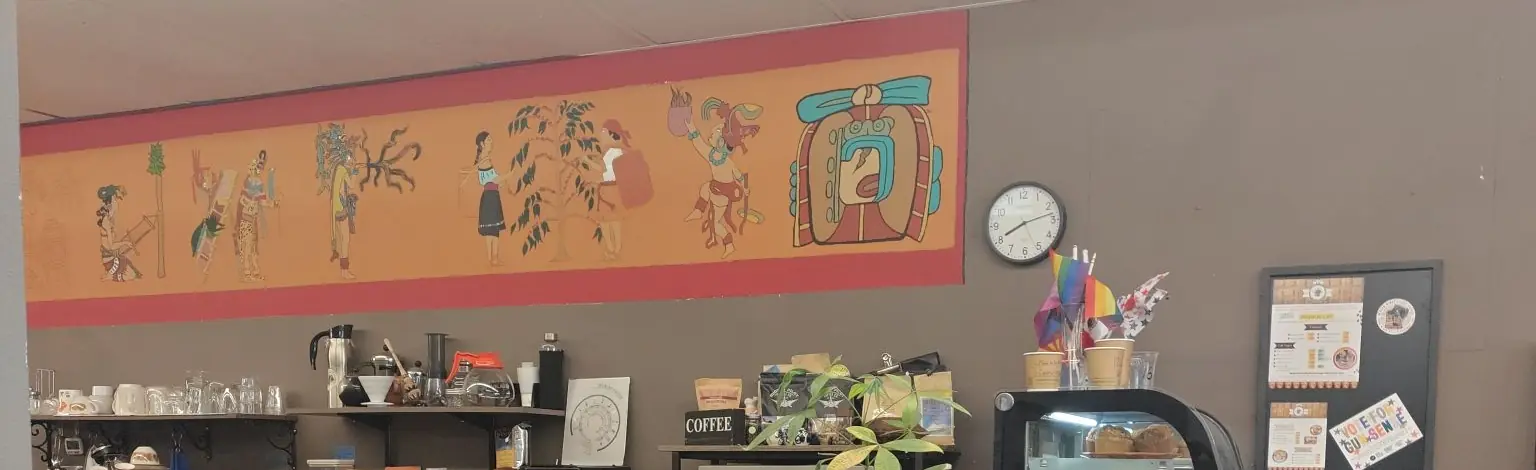
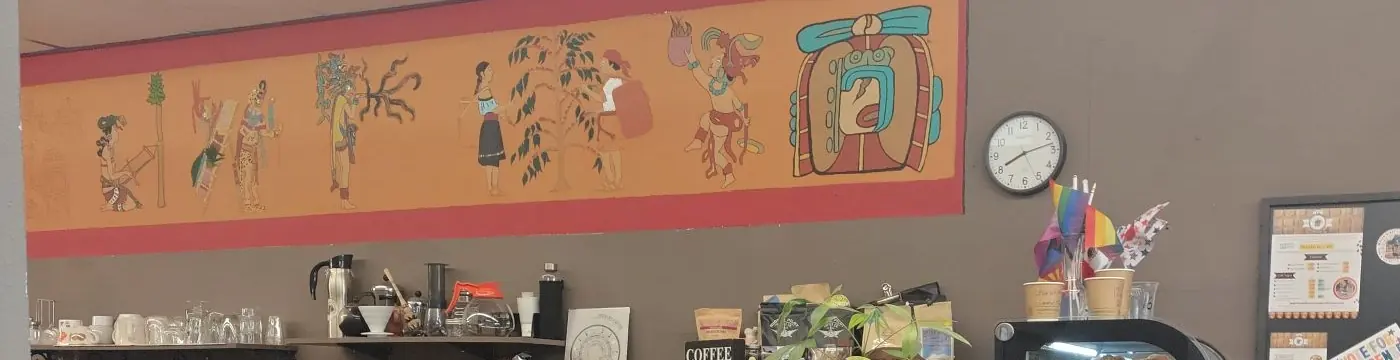
Revise the Mayan Winds hero, mural, and DoorDash link
Show the storefront as one leveled photo of the shop front, put a smaller mural at the top of the page, and add a quiet DoorDash link beside the Square button.

diff --git a/mayan-winds/index.html b/mayan-winds/index.html
@@ -12,7 +12,7 @@
 <link rel="preconnect" href="https://fonts.googleapis.com">
 <link rel="preconnect" href="https://fonts.gstatic.com" crossorigin>
 <link href="https://fonts.googleapis.com/css2?family=Fraunces:ital,opsz,wght@0,9..144,560;0,9..144,680;1,9..144,560&family=Outfit:wght@400;500;600;700&display=swap" rel="stylesheet">
-<link rel="stylesheet" href="css/style.css?v=20261118">
+<link rel="stylesheet" href="css/style.css?v=20261119">
 </head>
 <body>
 <div class="demo">Concept demo prepared for Mayan Winds Coffee Emporium, not affiliated or published.</div>
@@ -32,6 +32,7 @@
       <a class="nav-square" href="https://mayan-winds-flagstaff.square.site" target="_blank" rel="noopener">Order on Square</a>
     </nav>
     <div class="bar-actions">
+      <a class="doordash" href="https://order.online/business/mayan-winds-coffee-emporium-12930329" target="_blank" rel="noopener">DoorDash</a>
       <a class="btn btn-square desk" href="https://mayan-winds-flagstaff.square.site" target="_blank" rel="noopener">Order on Square</a>
       <button class="icon-btn" type="button" data-open-cart>Cart <span class="count" data-cart-count hidden>0</span></button>
       <button class="menu-btn" type="button" aria-expanded="false" aria-controls="nav-panel" aria-label="Open menu">Menu</button>
@@ -39,6 +40,12 @@
   </div>
 </header>
 <main id="main">
+  <figure class="headline-photo">
+    <picture>
+      <source srcset="img/mural.webp?v=20261119" type="image/webp">
+      <img src="img/mural.jpg?v=20261119" alt="Hand-painted orange Maya mural with a red border above the espresso bar" width="1400" height="360">
+    </picture>
+  </figure>
   <section class="hero" aria-label="Introduction">
     <div class="wrap hero-grid">
       <div class="hero-copy">
@@ -55,28 +62,12 @@
       </div>
       <div class="hero-media">
         <picture>
-          <source srcset="img/storefront.webp" type="image/webp">
-          <img src="img/storefront.jpg" alt="The Mayan Winds Coffee storefront on North Fourth Street, with the shop sign above the windows" width="1600" height="1062" fetchpriority="high">
+          <source srcset="img/storefront.webp?v=20261119" type="image/webp">
+          <img src="img/storefront.jpg?v=20261119" alt="The Mayan Winds Coffee storefront, from the sign down to the door and the window decals" width="1200" height="1435" fetchpriority="high">
         </picture>
       </div>
     </div>
   </section>
-
-  <section class="band" aria-label="Words on the window">
-    <div class="wrap band-words">
-      <p><b>Kakaw</b> Cacao</p>
-      <p><b>Café</b> Coffee</p>
-      <p><b>Miel</b> Honey</p>
-    </div>
-  </section>
-
-  <figure class="bleed">
-    <picture>
-      <source srcset="img/decals.webp" type="image/webp">
-      <img src="img/decals.jpg" alt="Window decals reading Kakaw Cacao, Café Coffee, and Miel Honey, with Maya-style drawings" width="1400" height="317" loading="lazy" decoding="async">
-    </picture>
-    <figcaption class="wrap">The front window, in the shop’s own words.</figcaption>
-  </figure>
 
   <section class="section">
     <div class="wrap split">
@@ -105,14 +96,6 @@
       <p class="more"><a class="btn btn-ghost" href="menu.html">Full menu</a></p>
     </div>
   </section>
-
-  <figure class="bleed">
-    <picture>
-      <source srcset="img/mural.webp" type="image/webp">
-      <img src="img/mural.jpg" alt="Hand-painted orange mural with a red border above the espresso bar" width="1536" height="470" loading="lazy" decoding="async">
-    </picture>
-    <figcaption class="wrap">The mural above the espresso bar.</figcaption>
-  </figure>
 
   <section class="section">
     <div class="wrap">

diff --git a/mayan-winds/css/style.css b/mayan-winds/css/style.css
@@ -157,6 +157,7 @@ button, input, select { font: inherit; color: inherit; }
   cursor: pointer;
 }
 .icon-btn { display: inline-flex; align-items: center; gap: .4rem; }
+.count[hidden] { display: none; }
 .count {
   background: var(--orange);
   color: #fff;
@@ -226,26 +227,38 @@ button, input, select { font: inherit; color: inherit; }
 .hero-meta a { color: var(--ink); font-weight: 650; }
 
 .hero-grid { display: grid; gap: 0; }
-.hero-media { order: -1; margin-inline: calc(50% - 50vw); }
+.headline-photo {
+  margin: 1rem auto 0;
+  width: min(760px, calc(100% - 2.2rem));
+}
+.headline-photo img {
+  width: 100%;
+  height: auto;
+  border-radius: 14px;
+  display: block;
+}
 .hero-media img {
   width: 100%;
-  height: min(62vw, 420px);
-  object-fit: cover;
-  object-position: center 40%;
+  height: auto;
+  border-radius: 18px;
 }
+.doordash {
+  display: inline-flex;
+  align-items: center;
+  min-height: 34px;
+  padding: .15rem .6rem;
+  border-radius: 999px;
+  border: 1px solid var(--line);
+  color: var(--muted);
+  background: transparent;
+  text-decoration: none;
+  font-size: .78rem;
+  font-weight: 600;
+  letter-spacing: .01em;
+}
+.doordash:hover { color: var(--ink); border-color: var(--muted); }
 .hero-copy { padding: 1.6rem 0 2.2rem; }
 .hero-logo { width: 108px; height: 108px; border-radius: 50%; background: #fff; margin-bottom: .8rem; box-shadow: var(--shadow); }
-
-.band { background: var(--red); color: #fff8ef; }
-.band-words {
-  display: grid;
-  grid-template-columns: 1fr;
-  gap: .35rem;
-  padding: 1.1rem 0;
-  text-align: center;
-}
-.band-words p { margin: 0; letter-spacing: .08em; text-transform: uppercase; font-size: .92rem; }
-.band-words b { font-family: Fraunces, Georgia, serif; font-size: 1.35rem; letter-spacing: 0; text-transform: none; display: block; }
 
 .bleed { margin: 0; }
 .bleed img { width: 100%; max-height: 420px; object-fit: cover; object-position: center; }
@@ -530,7 +543,6 @@ button, input, select { font: inherit; color: inherit; }
 }
 
 @media (min-width: 720px) {
-  .band-words { grid-template-columns: repeat(3, 1fr); padding: 1.3rem 0; }
   .feature-grid, .shop-grid { grid-template-columns: 1fr 1fr; }
   .visit-grid { grid-template-columns: .9fr 1.1fr; align-items: start; }
   .info-grid { grid-template-columns: 1fr 1fr 1fr; }
@@ -566,10 +578,10 @@ button, input, select { font: inherit; color: inherit; }
     gap: 2rem;
     padding: 1.2rem 0 1.6rem;
   }
-  .hero-media { order: 0; margin-inline: 0; margin-right: calc(50% - 50vw); }
+  .hero-media { margin-inline: 0; }
   .hero-media img {
-    height: 640px;
-    border-radius: 22px 0 0 22px;
+    height: auto;
+    border-radius: 18px;
     max-height: none;
   }
   .hero-copy { padding: 2rem 0; }

diff --git a/mayan-winds/story.html b/mayan-winds/story.html
@@ -12,7 +12,7 @@
 <link rel="preconnect" href="https://fonts.googleapis.com">
 <link rel="preconnect" href="https://fonts.gstatic.com" crossorigin>
 <link href="https://fonts.googleapis.com/css2?family=Fraunces:ital,opsz,wght@0,9..144,560;0,9..144,680;1,9..144,560&family=Outfit:wght@400;500;600;700&display=swap" rel="stylesheet">
-<link rel="stylesheet" href="css/style.css?v=20261118">
+<link rel="stylesheet" href="css/style.css?v=20261119">
 </head>
 <body>
 <div class="demo">Concept demo prepared for Mayan Winds Coffee Emporium, not affiliated or published.</div>
@@ -70,8 +70,8 @@
     <div class="wrap gallery">
       <figure class="wide">
         <picture>
-          <source srcset="img/mural.webp" type="image/webp">
-          <img src="img/mural.jpg" alt="Close view of the hand-painted Maya mural in orange and red" width="1536" height="470" loading="lazy" decoding="async">
+          <source srcset="img/mural.webp?v=20261119" type="image/webp">
+          <img src="img/mural.jpg?v=20261119" alt="Close view of the hand-painted Maya mural in orange and red" width="1400" height="360" loading="lazy" decoding="async">
         </picture>
         <figcaption>The mural above the bar.</figcaption>
       </figure>

diff --git a/mayan-winds/visit.html b/mayan-winds/visit.html
@@ -12,7 +12,7 @@
 <link rel="preconnect" href="https://fonts.googleapis.com">
 <link rel="preconnect" href="https://fonts.gstatic.com" crossorigin>
 <link href="https://fonts.googleapis.com/css2?family=Fraunces:ital,opsz,wght@0,9..144,560;0,9..144,680;1,9..144,560&family=Outfit:wght@400;500;600;700&display=swap" rel="stylesheet">
-<link rel="stylesheet" href="css/style.css?v=20261118">
+<link rel="stylesheet" href="css/style.css?v=20261119">
 </head>
 <body>
 <div class="demo">Concept demo prepared for Mayan Winds Coffee Emporium, not affiliated or published.</div>
@@ -94,8 +94,8 @@
   </section>
   <figure class="bleed">
     <picture>
-      <source srcset="img/storefront.webp" type="image/webp">
-      <img src="img/storefront.jpg" alt="Mayan Winds Coffee storefront at 2144 North Fourth Street" width="1600" height="1062" loading="lazy" decoding="async">
+      <source srcset="img/storefront.webp?v=20261119" type="image/webp">
+      <img src="img/storefront.jpg?v=20261119" alt="Mayan Winds Coffee storefront at 2144 North Fourth Street" width="1200" height="1435" loading="lazy" decoding="async">
     </picture>
   </figure>
 </main>

diff --git a/mayan-winds/menu.html b/mayan-winds/menu.html
@@ -12,7 +12,7 @@
 <link rel="preconnect" href="https://fonts.googleapis.com">
 <link rel="preconnect" href="https://fonts.gstatic.com" crossorigin>
 <link href="https://fonts.googleapis.com/css2?family=Fraunces:ital,opsz,wght@0,9..144,560;0,9..144,680;1,9..144,560&family=Outfit:wght@400;500;600;700&display=swap" rel="stylesheet">
-<link rel="stylesheet" href="css/style.css?v=20261118">
+<link rel="stylesheet" href="css/style.css?v=20261119">
 </head>
 <body>
 <div class="demo">Concept demo prepared for Mayan Winds Coffee Emporium, not affiliated or published.</div>

diff --git a/mayan-winds/order.html b/mayan-winds/order.html
@@ -12,7 +12,7 @@
 <link rel="preconnect" href="https://fonts.googleapis.com">
 <link rel="preconnect" href="https://fonts.gstatic.com" crossorigin>
 <link href="https://fonts.googleapis.com/css2?family=Fraunces:ital,opsz,wght@0,9..144,560;0,9..144,680;1,9..144,560&family=Outfit:wght@400;500;600;700&display=swap" rel="stylesheet">
-<link rel="stylesheet" href="css/style.css?v=20261118">
+<link rel="stylesheet" href="css/style.css?v=20261119">
 </head>
 <body>
 <div class="demo">Concept demo prepared for Mayan Winds Coffee Emporium, not affiliated or published.</div>
